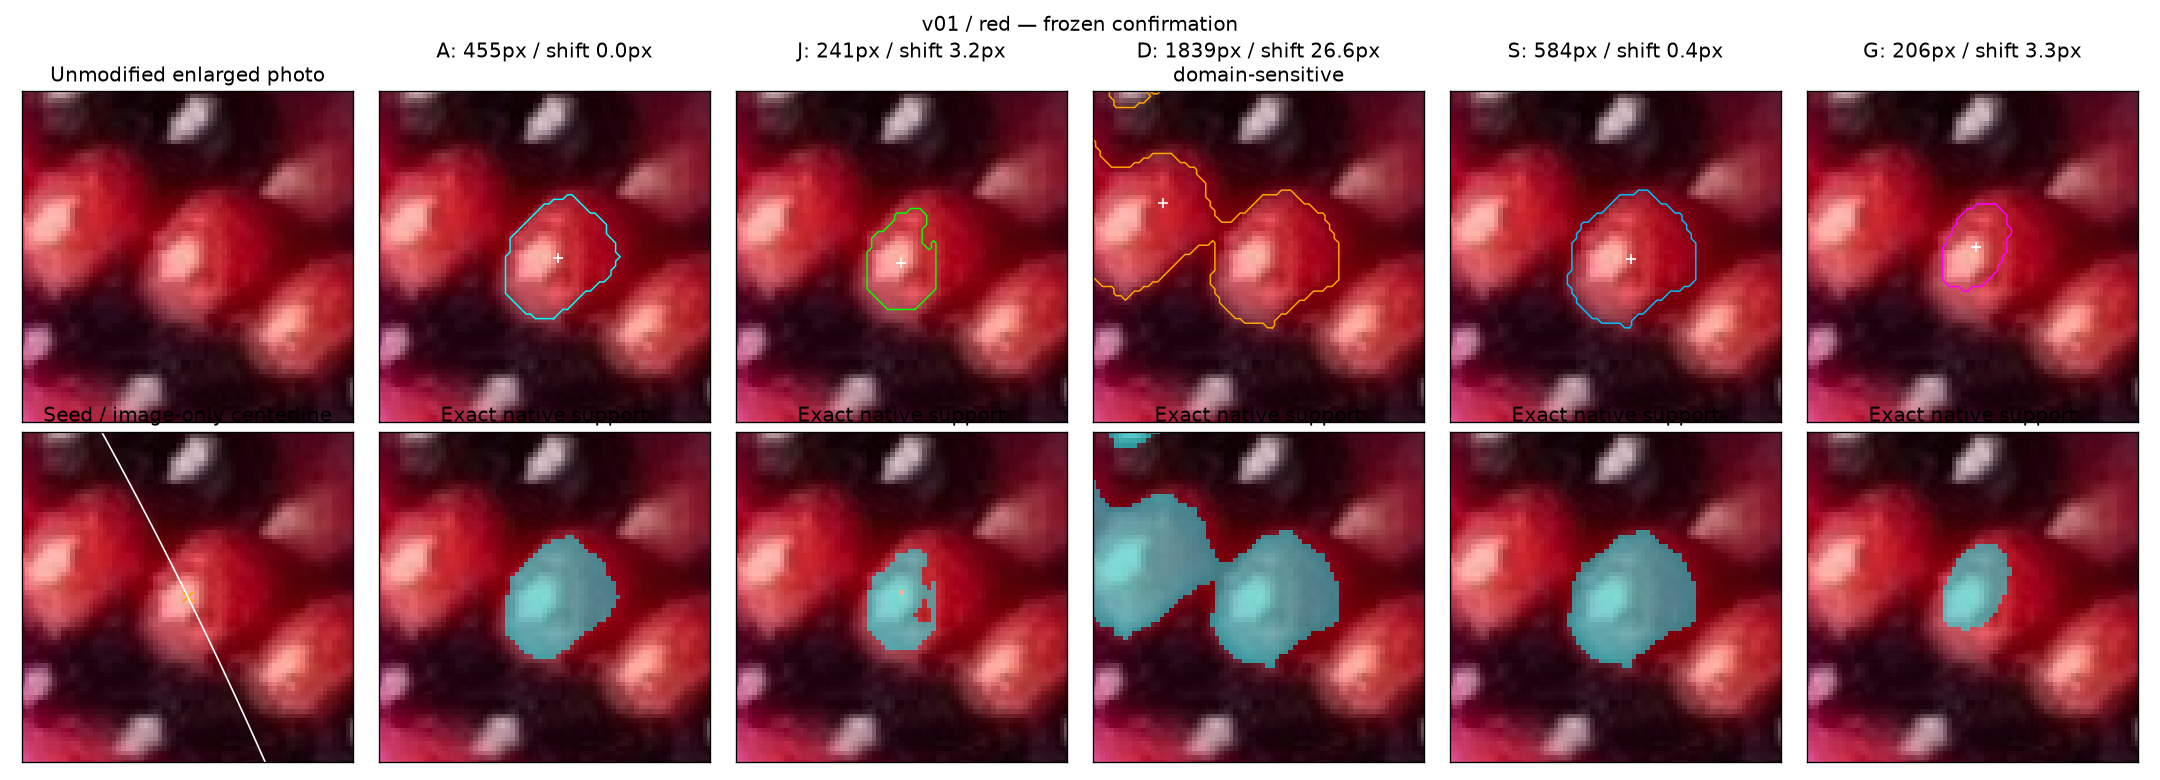
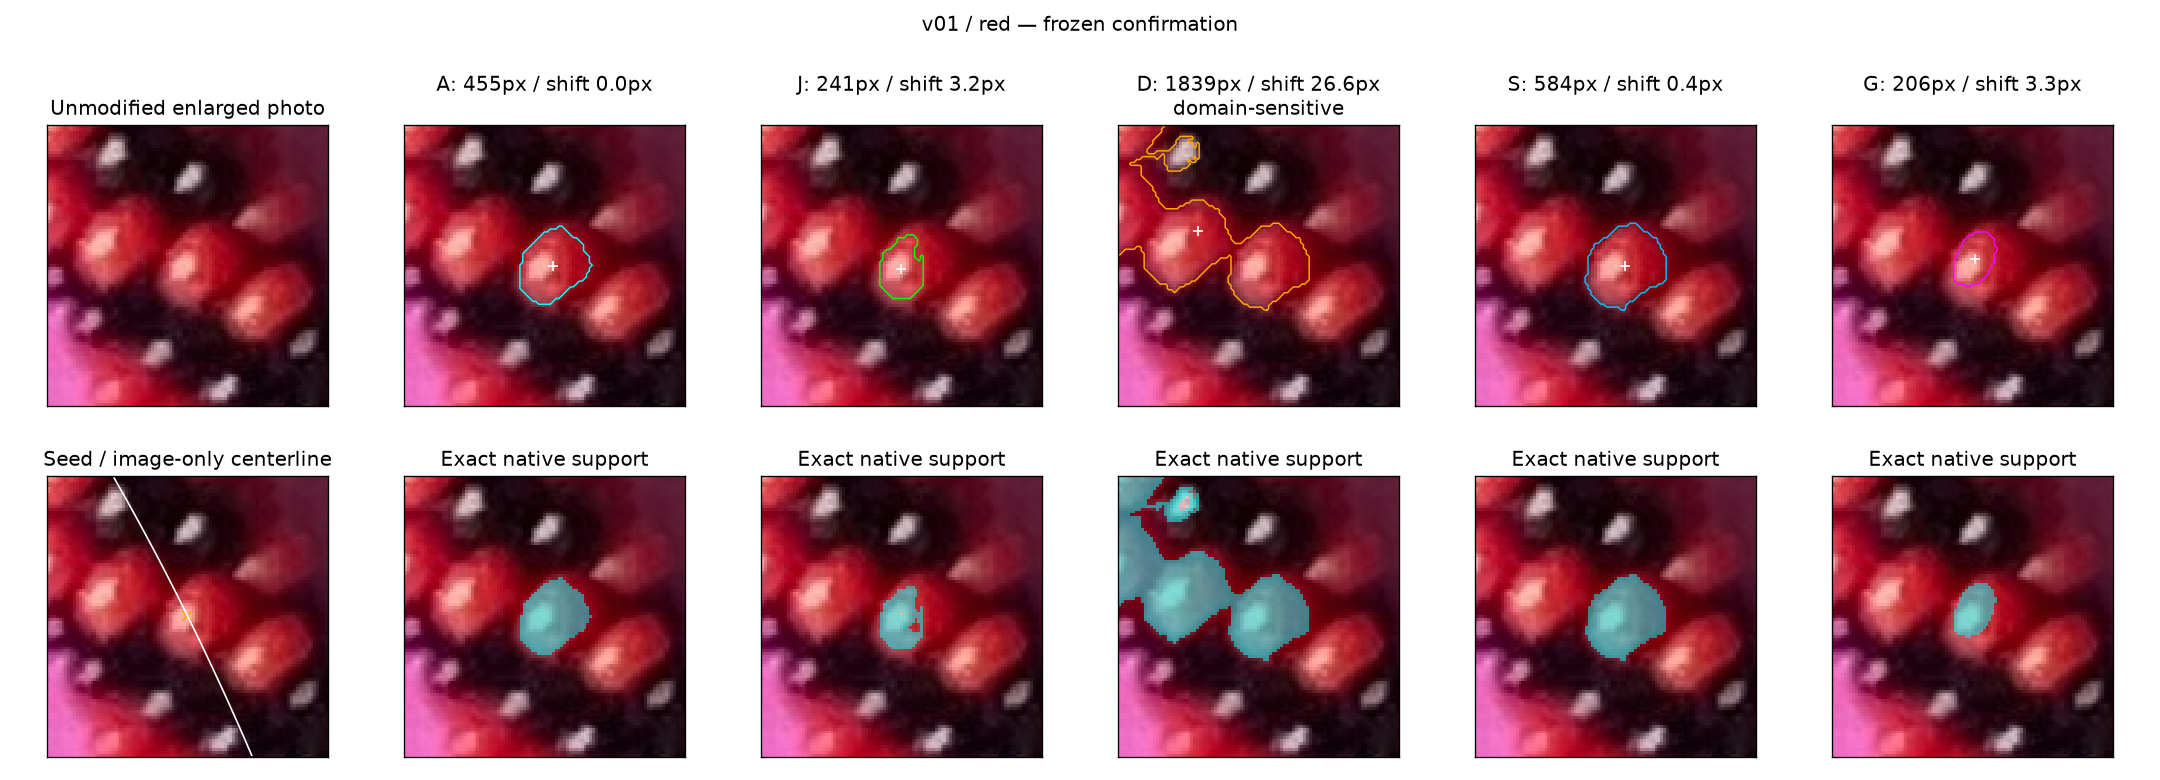
R285: record verified delivery and show full native support windows

diff --git a/photo2/r285/review.py b/photo2/r285/review.py
@@ -29,8 +29,8 @@ def panel(o,name,caption=''):
         met=r['metrics'];info=r['method_evidence'];ax.set_title(f"{m}: {met['area']}px / shift {met['centroid_shift'] or 0:.1f}px\n"+('domain-sensitive' if info.get('domain_sensitive') else ''))
     for ax,m in zip(axs[1,1:],methods):
         r=o['variants'][m];mask=local_mask(r['measured_support'],origin,lum.shape);ax.imshow(im,interpolation='nearest');rgba=np.zeros((*mask.shape,4));rgba[mask]=[0,1,1,.5];ax.imshow(rgba,interpolation='nearest');ax.set_title('Exact native support')
-    for ax in axs.flat:ax.set_xlim(12,84);ax.set_ylim(84,12)
-    fig.suptitle(name+' / '+o['color']+' — '+caption);fig.tight_layout();fig.savefig(REVIEW/(name+'-methods.png'),dpi=120);plt.close(fig)
+    for ax in axs.flat:ax.set_xlim(-.5,96.5);ax.set_ylim(96.5,-.5)
+    fig.suptitle(name+' / '+o['color']+' — '+caption);fig.tight_layout();fig.subplots_adjust(hspace=.25,top=.84,bottom=.03);fig.savefig(REVIEW/(name+'-methods.png'),dpi=120);plt.close(fig)
     fig,axs=plt.subplots(1,3,figsize=(12,3.5))
     axs[0].imshow(im,interpolation='nearest');axs[0].axhline(48,color='white');axs[0].axvline(48,color='yellow');axs[0].set_title('Native horizontal / vertical routes')
     for ax,signal,label in [(axs[1],lum[48,:],'Horizontal'),(axs[2],lum[:,48],'Vertical')]:

diff --git a/photo2/R285_CHECKLIST.md b/photo2/R285_CHECKLIST.md
@@ -25,7 +25,7 @@
 - [x] Preserve previous R282/R283/R284A/R284B implementations/results; deliberate permanent-contract edit listed.
 - [x] Reproduction,74 tests, exact replay, native-crop/preservation audit and local Chromium review.
 - [x] Report recommendations and clear-material S failure; update plan/log/handoff/checkpoints.
-- [ ] Scoped commit/push and verified remote tip: complete only when delivery receipt records success.
+- [x] Scientific commit785969a pushed and remote verified; receipt in r285/results/delivery.json. Final receipt/presentation commit is verified at delivery.
 - [x] Stop for user review; no production adoption, Phase2 fitting or Phase3 search.
 
 Real-photo distinct-body precision/recall and full centerline completeness are not

diff --git a/REQUEST_LOG.md b/REQUEST_LOG.md
@@ -8368,3 +8368,6 @@ recorded in photo2/r285/results/delivery.json when complete. STOP for method cho
 no Phase2/3, no manual labeling. Keep current model/reasoning; no /new needed.
 
 Recommendations are review choices, not adopted production methods. Clear-yellow v04 failure remains prominent; user edge/shadow exception does not excuse it.
+
+## R285 delivery verification
+Scientific commit785969a875656af4f88c958629e2eacb4e22b250 pushed to origin/photo-2-strategy-v3; git ls-remote matched exactly. Final receipt also records the presentation audit: expanded detailed panels show the complete97px computation window; central choice panels remain zoomed. No algorithm, inventory, or later-phase changes. Stop for user selection.

diff --git a/photo2/r285/checkpoints/05-recommendation-and-verification.md b/photo2/r285/checkpoints/05-recommendation-and-verification.md
@@ -19,3 +19,8 @@ permanent-contract exception. All failed experiments and confirmation data remai
 Next: scoped commit/push, verify remote, then stop for user choice. Only after the
 user chooses may a new bounded integration/validation task begin. Keep current
 model/reasoning; no /new needed. Delivery receipt will record actual commit/remote.
+
+Final presentation audit: expanded all-method panels now show the entire97px
+computation window, including leaking/window-contact pixels. The small J/S choice
+panels intentionally zoom the central73px; unmodified97px native crops are linked.
+This changes presentation only, not measured supports or numerical results.
